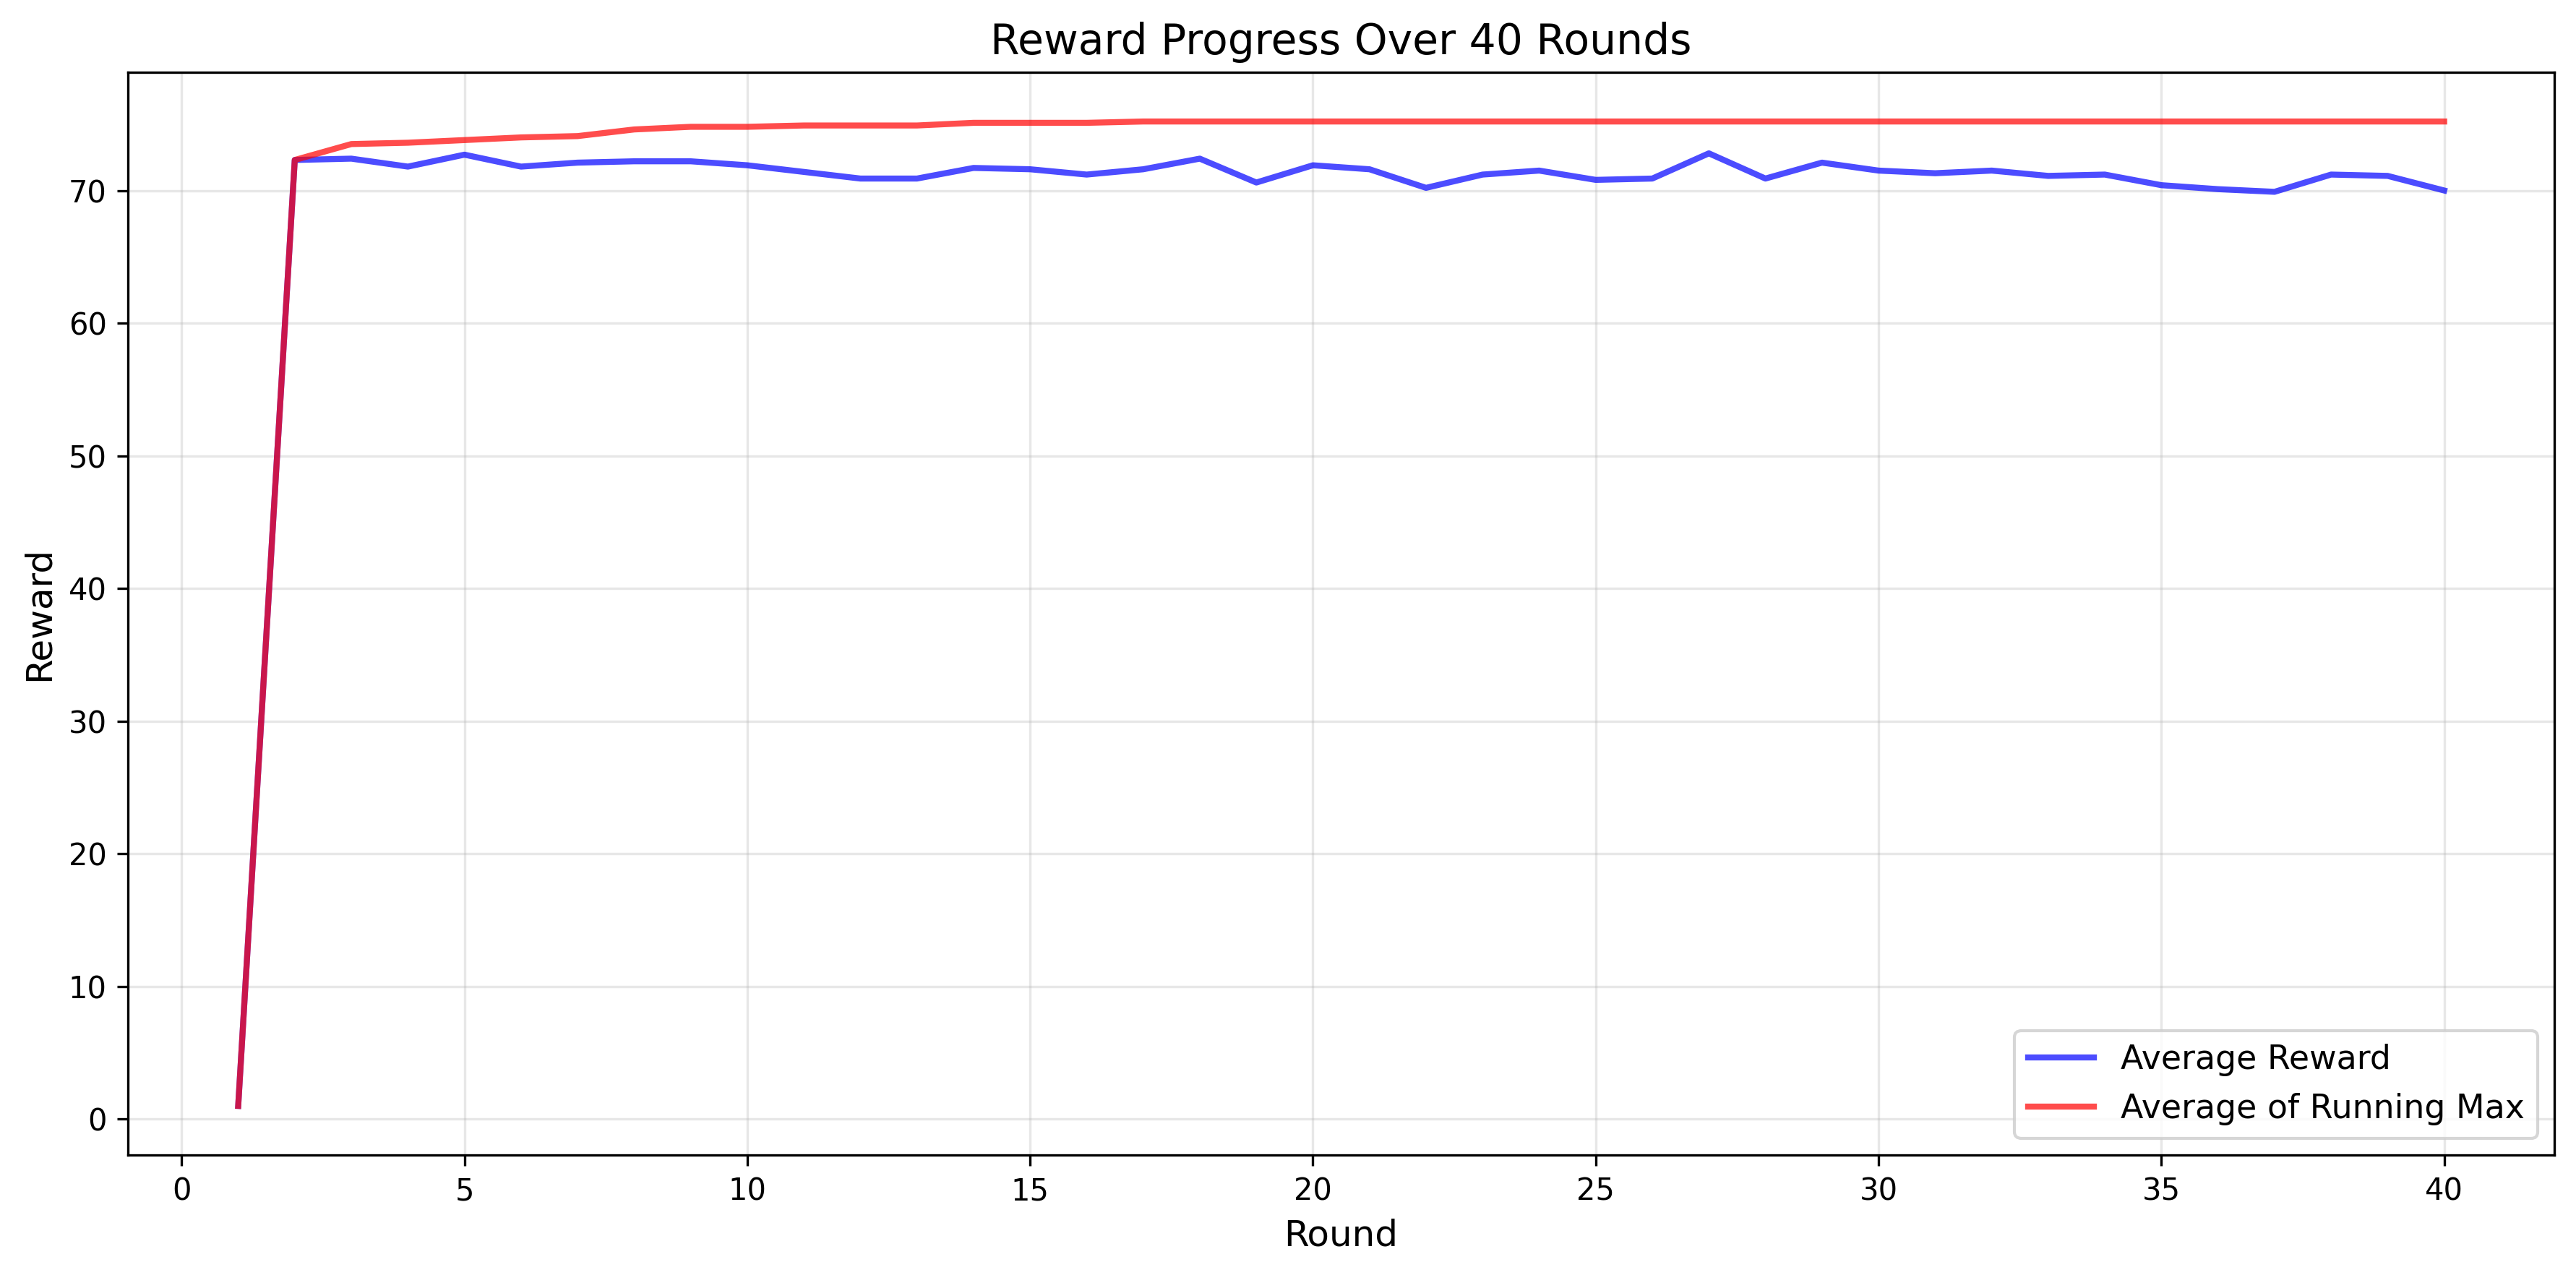
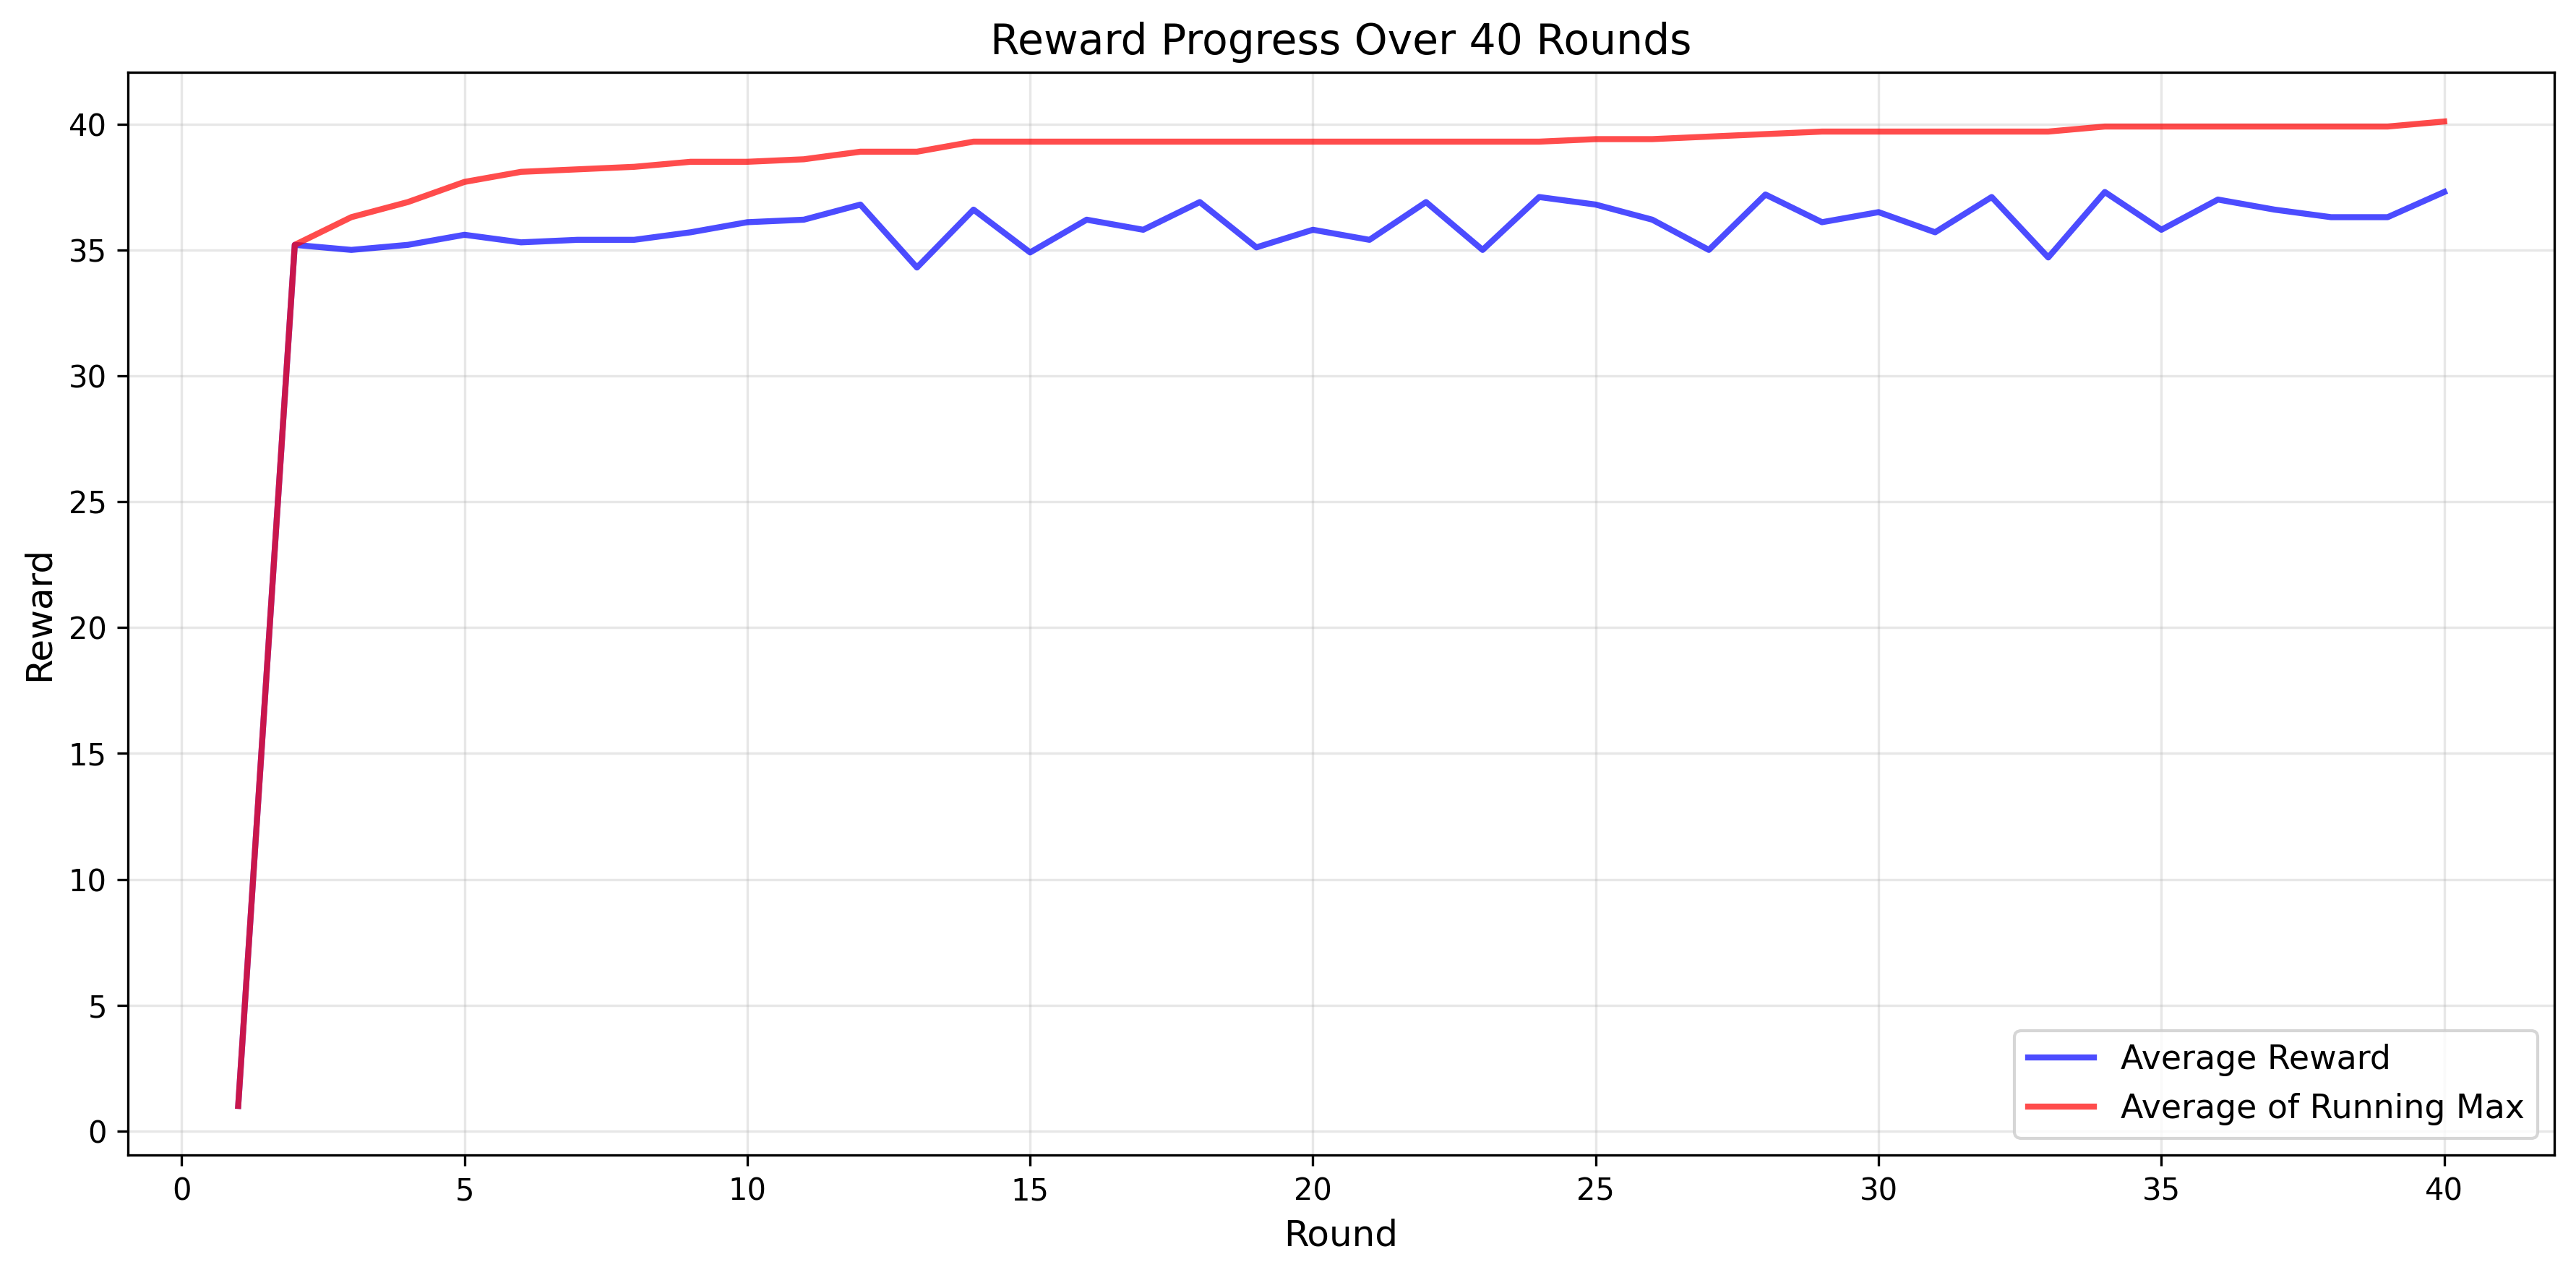
rouge1 score

diff --git a/beyond_parameterized_knowledge/beyond_parametric_knowledge.py b/beyond_parameterized_knowledge/beyond_parametric_knowledge.py
@@ -17,6 +17,8 @@ from concurrent.futures import ThreadPoolExecutor
 from sentence_transformers import SentenceTransformer
 import torch.nn.functional as F
 
+from rouge_score import rouge_scorer
+
 embed_model = SentenceTransformer('all-MiniLM-L6-v2')
 
 from openai import OpenAI
@@ -25,9 +27,9 @@ num_char = 200
 
 
 api_eval = True  # Set to False to use vLLM instead of OpenAI
-sentence_transformer_eval = True
+sentence_transformer_eval = False
 openrouter_eval = False  # Set to True to use OpenRouter API
-
+rouge_eval = True 
 
 rejection_sampling = 0
 ICRL = 1
@@ -63,6 +65,8 @@ elif openrouter_eval:
     OPENROUTER_MODEL = "microsoft/phi-4"
     openrouter_client = OpenAI(base_url="https://openrouter.ai/api/v1", api_key=OPENROUTER_API_KEY)
 
+if rouge_eval:
+      rouge_scorer_obj = rouge_scorer.RougeScorer(['rouge1'], use_stemmer=True)
 
 
 exploration_instruction = "Instruction: Examine all the `<attempt>…</attempt>` examples, each showing a candidate Response and its Reward. Provide a response that is different from previous attempts demonstrated in the context, and wrap it in `<answer>...</answer>`."
@@ -198,7 +202,7 @@ def evaluate_checkpoint(
         
         if api_eval:
             # Use OpenAI API for generation
-            model_name = "gpt-4.1"
+            model_name = "gpt-4.1-mini"
             with ThreadPoolExecutor(max_workers=20) as pool:
                 api_outputs = list(pool.map(
                     lambda p: client.responses.create(model=model_name, input=p).output_text,
@@ -275,9 +279,25 @@ def evaluate_checkpoint(
 
             if not openrouter_eval and not api_eval:
                 sampling_params_eval = SamplingParams(temperature=0.0, top_p=1.0, max_tokens=64)
+            
+            
+            if rouge_eval:
+                eval_result_list = []
+                for i, output_obj in enumerate(api_outputs):
+                    # Extract model answer
+                    pattern = re.compile(r'<answer>(.*?)</answer>', re.DOTALL)
+                    try:
+                        model_answer = pattern.findall(output_obj)[0]
+                    except:
+                        model_answer = ""
 
-           
-            if sentence_transformer_eval:
+                    # Calculate ROUGE-1 score
+                    scores = rouge_scorer_obj.score(abstracts[i], model_answer)
+                    rouge1_f1 = scores['rouge1'].fmeasure  # F1 score (0-1 range)
+                    similarity_score = int(rouge1_f1 * 100)  # Convert to 0-100
+                    eval_result_list.append(f"Similarity score: {similarity_score}")
+
+            elif sentence_transformer_eval:
                 eval_result_list = []
                 for pair in eval_prompt_list:
                     similarity = F.cosine_similarity(pair[0].unsqueeze(0),pair[1].unsqueeze(0)).item()
@@ -375,8 +395,8 @@ def evaluate_checkpoint(
             else:
                 if random_reward:
                     eval_prompt_i = ""
-                elif sentence_transformer_eval:
-                    eval_prompt_i = "Sentence Transformer Embeddings"
+                elif sentence_transformer_eval or rouge_eval:
+                    eval_prompt_i = "direct comparison"
                 else:
                     eval_prompt_i = eval_prompt_list[i]
             # Create a weak demo dictionary.